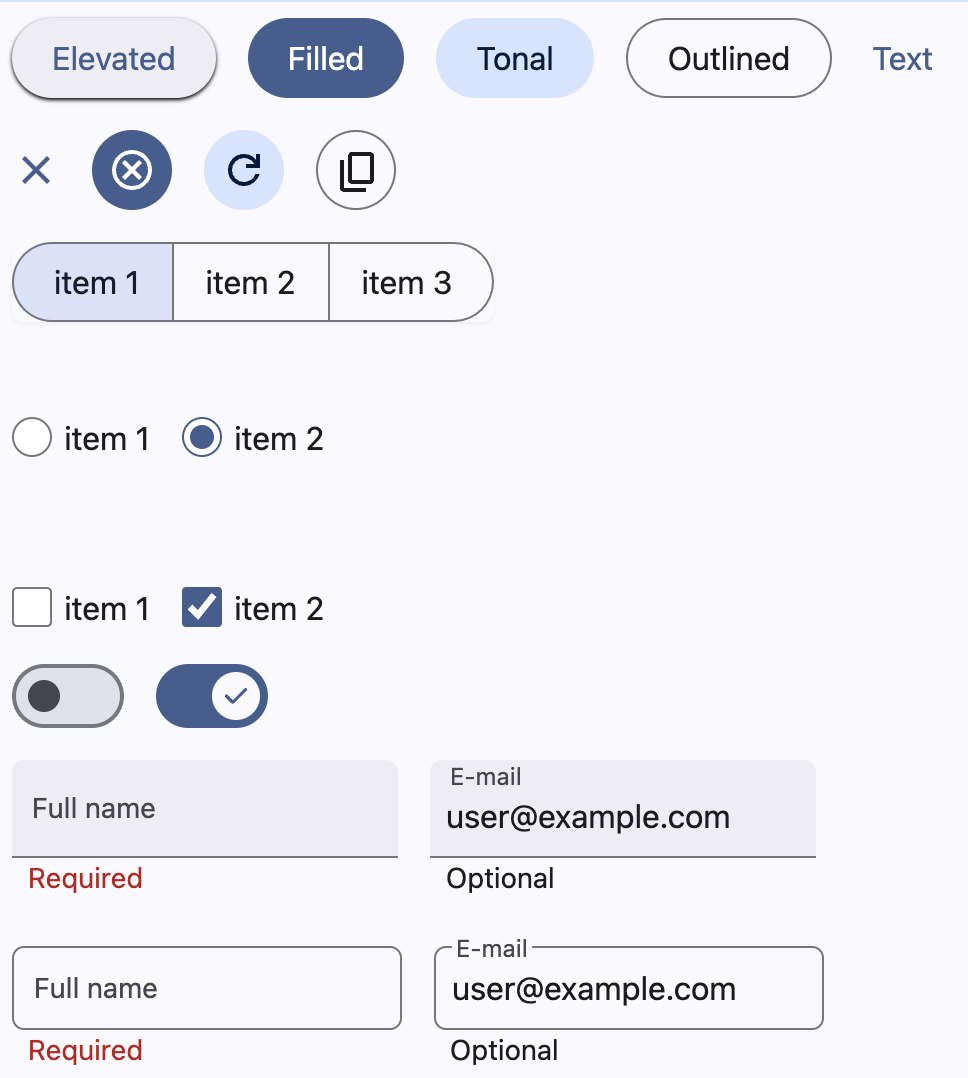
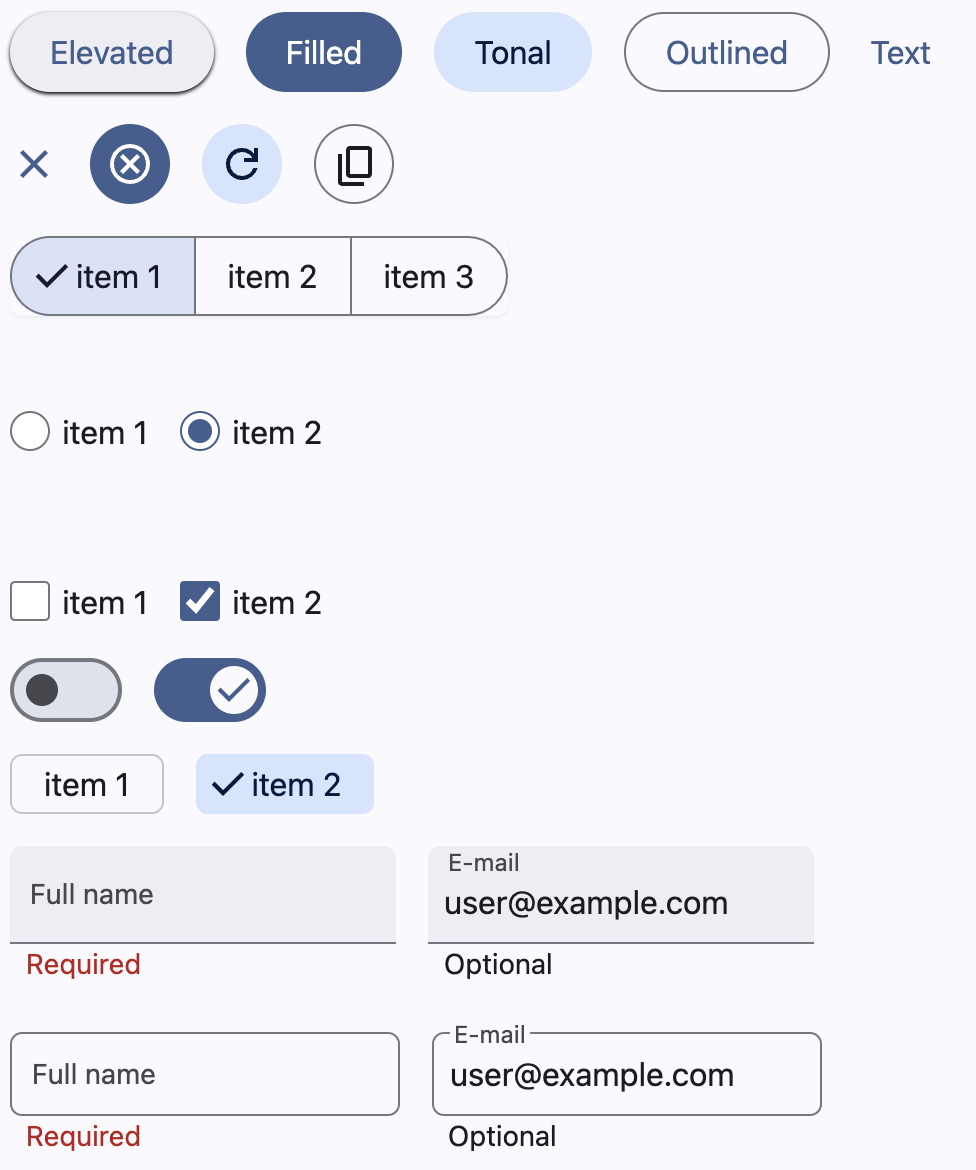
add filter component and some bug fix

diff --git a/src/lib/ButtonGroup.svelte b/src/lib/ButtonGroup.svelte
@@ -1,4 +1,6 @@
 <script>
+  import SvgCheck from "./SvgCheck.svelte";
+
   export let id;
   export let items;
   export let onClick;
@@ -16,15 +18,21 @@
         onClick(item.value);
       }}
       class={(index == 0
-        ? "pr-4 pl-5 py-1.5 border-t border-b border-l rounded-l-full"
+        ? "pr-4 py-1.5 border-t border-b border-l rounded-l-full"
         : index == items.length - 1
-          ? "pl-4 pr-5 py-1.5 border rounded-r-full"
-          : "px-4 py-1.5 border-t border-b border-l") +
+          ? "pr-4 py-1.5 border rounded-r-full"
+          : "pr-4 py-1.5 border-t border-b border-l") +
         " border-lightOutline dark:border-darkOutline" +
         (item.selected
-          ? " bg-lightSecondaryContainer dark:bg-darkSecondaryContainer text-lightOnSecondaryContainer dark:text-darkOnSecondaryContainer"
-          : " bg-lightSurface dark:bg-darkSurface text-lightOnSurface dark:text-darkOnSurface")}
-      >{item.label}</button
+          ? " pl-2 bg-lightSecondaryContainer dark:bg-darkSecondaryContainer text-lightOnSecondaryContainer dark:text-darkOnSecondaryContainer"
+          : " pl-4 bg-lightSurface dark:bg-darkSurface text-lightOnSurface dark:text-darkOnSurface")}
     >
+      <span class="flex flex-row">
+        {#if item.selected}
+          <SvgCheck />
+        {/if}
+        {item.label}
+      </span>
+    </button>
   {/each}
 </div>

diff --git a/src/lib/Switch.svelte b/src/lib/Switch.svelte
@@ -1,4 +1,6 @@
 <script>
+  import SvgCheck from "./SvgCheck.svelte";
+
   export let id;
   export let checked = false;
   export let ouClick;
@@ -29,22 +31,11 @@
       size-4 peer-checked:size-6
       items-center justify-center rounded-full
       bg-lightOnSurfaceVariant dark:bg-darkOnSurfaceVariant
+      text-lightOnSurfaceVariant dark:text-darkOnSurfaceVariant
       transition-all peer-checked:start-6
-      peer-checked:text-lightPrimary peer-checked:dark:text-darkPrimary
-      peer-checked:bg-lightSurface peer-checked:dark:bg-darkSurface"
+      peer-checked:bg-lightSurface peer-checked:dark:bg-darkSurface
+      peer-checked:text-lightPrimary peer-checked:dark:text-darkPrimary"
   >
-    <svg
-      data-checked-icon
-      xmlns="http://www.w3.org/2000/svg"
-      class="hidden size-4"
-      viewBox="0 0 20 20"
-      fill="currentColor"
-    >
-      <path
-        fill-rule="evenodd"
-        d="M16.707 5.293a1 1 0 010 1.414l-8 8a1 1 0 01-1.414 0l-4-4a1 1 0 011.414-1.414L8 12.586l7.293-7.293a1 1 0 011.414 0z"
-        clip-rule="evenodd"
-      />
-    </svg>
+    <SvgCheck />
   </span>
 </label>

diff --git a/src/lib/SvgCancel.svelte b/src/lib/SvgCancel.svelte
@@ -1,1 +1,10 @@
-<svg xmlns="http://www.w3.org/2000/svg" height="24px" viewBox="0 -960 960 960" width="24px" fill="currentColor"><path d="m336-280 144-144 144 144 56-56-144-144 144-144-56-56-144 144-144-144-56 56 144 144-144 144 56 56ZM480-80q-83 0-156-31.5T197-197q-54-54-85.5-127T80-480q0-83 31.5-156T197-763q54-54 127-85.5T480-880q83 0 156 31.5T763-763q54 54 85.5 127T880-480q0 83-31.5 156T763-197q-54 54-127 85.5T480-80Zm0-80q134 0 227-93t93-227q0-134-93-227t-227-93q-134 0-227 93t-93 227q0 134 93 227t227 93Zm0-320Z"/></svg>
+<svg
+  xmlns="http://www.w3.org/2000/svg"
+  height="24px"
+  viewBox="0 -960 960 960"
+  width="24px"
+  fill="currentColor"
+  ><path
+    d="m336-280 144-144 144 144 56-56-144-144 144-144-56-56-144 144-144-144-56 56 144 144-144 144 56 56ZM480-80q-83 0-156-31.5T197-197q-54-54-85.5-127T80-480q0-83 31.5-156T197-763q54-54 127-85.5T480-880q83 0 156 31.5T763-763q54 54 85.5 127T880-480q0 83-31.5 156T763-197q-54 54-127 85.5T480-80Zm0-80q134 0 227-93t93-227q0-134-93-227t-227-93q-134 0-227 93t-93 227q0 134 93 227t227 93Zm0-320Z"
+  /></svg
+>

diff --git a/src/App.svelte b/src/App.svelte
@@ -13,6 +13,7 @@
   import IconButtonOutlined from "./lib/IconButtonOutlined.svelte";
   import CheckBox from "./lib/CheckBox.svelte";
   import Switch from "./lib/Switch.svelte";
+  import Filter from "./lib/Filter.svelte";
   import Radio from "./lib/Radio.svelte";
   import TextFieldFilled from "./lib/TextFieldFilled.svelte";
   import TextFieldOutlined from "./lib/TextFieldOutlined.svelte";
@@ -227,6 +228,20 @@
   <div class="flex p-2 gap-4">
     <Switch id="Switch1" checked={$checked1} ouClick={ouClickSwitch1} />
     <Switch id="Switch2" checked={!$checked1} ouClick={ouClickSwitch2} />
+  </div>
+  <div class="flex p-2 gap-4">
+    <Filter
+      id="Filter1"
+      label="item 1"
+      checked={$checked1}
+      ouClick={ouClickCheckBox1}
+    />
+    <Filter
+      id="Filter1"
+      label="item 2"
+      checked={!$checked1}
+      ouClick={ouClickCheckBox2}
+    />
   </div>
   <div class="grid grid-cols-2 w-full">
     <div class="flex flex-row p-2 gap-4">

diff --git a/src/lib/SvgContentCopy.svelte b/src/lib/SvgContentCopy.svelte
@@ -1,1 +1,10 @@
-<svg xmlns="http://www.w3.org/2000/svg" height="24px" viewBox="0 -960 960 960" width="24px" fill="currentColor"><path d="M360-240q-33 0-56.5-23.5T280-320v-480q0-33 23.5-56.5T360-880h360q33 0 56.5 23.5T800-800v480q0 33-23.5 56.5T720-240H360Zm0-80h360v-480H360v480ZM200-80q-33 0-56.5-23.5T120-160v-560h80v560h440v80H200Zm160-240v-480 480Z"/></svg>
+<svg
+  xmlns="http://www.w3.org/2000/svg"
+  height="24px"
+  viewBox="0 -960 960 960"
+  width="24px"
+  fill="currentColor"
+  ><path
+    d="M360-240q-33 0-56.5-23.5T280-320v-480q0-33 23.5-56.5T360-880h360q33 0 56.5 23.5T800-800v480q0 33-23.5 56.5T720-240H360Zm0-80h360v-480H360v480ZM200-80q-33 0-56.5-23.5T120-160v-560h80v560h440v80H200Zm160-240v-480 480Z"
+  /></svg
+>

diff --git a/src/lib/SvgRefresh.svelte b/src/lib/SvgRefresh.svelte
@@ -1,1 +1,10 @@
-<svg xmlns="http://www.w3.org/2000/svg" height="24px" viewBox="0 -960 960 960" width="24px" fill="currentColor"><path d="M480-160q-134 0-227-93t-93-227q0-134 93-227t227-93q69 0 132 28.5T720-690v-110h80v280H520v-80h168q-32-56-87.5-88T480-720q-100 0-170 70t-70 170q0 100 70 170t170 70q77 0 139-44t87-116h84q-28 106-114 173t-196 67Z"/></svg>
+<svg
+  xmlns="http://www.w3.org/2000/svg"
+  height="24px"
+  viewBox="0 -960 960 960"
+  width="24px"
+  fill="currentColor"
+  ><path
+    d="M480-160q-134 0-227-93t-93-227q0-134 93-227t227-93q69 0 132 28.5T720-690v-110h80v280H520v-80h168q-32-56-87.5-88T480-720q-100 0-170 70t-70 170q0 100 70 170t170 70q77 0 139-44t87-116h84q-28 106-114 173t-196 67Z"
+  /></svg
+>

diff --git a/src/lib/Filter.svelte b/src/lib/Filter.svelte
@@ -1,0 +1,25 @@
+<script>
+  import SvgCheck from "./SvgCheck.svelte";
+
+  export let id;
+  export let label;
+  export let checked = false;
+  export let ouClick;
+</script>
+
+<button
+  {id}
+  type="button"
+  class={"pr-4 py-0.5 rounded-md " +
+    (checked
+      ? "pl-1 border-none bg-lightPrimaryContainer dark:bg-darkPrimaryContainer text-lightOnPrimaryContainer dark:text-darkOnPrimaryContainer"
+      : "pl-4 border bg-lightSurface dark:bg-darkSurface text-lightOnSurface dark:text-darkOnSurface border-lightOutlineVariant dark:border-darkOutlineVariant")}
+  on:click={ouClick}
+>
+  <span class="flex flex-row">
+    {#if checked}
+      <SvgCheck />
+    {/if}
+    {label}
+  </span>
+</button>

diff --git a/src/lib/SvgClose.svelte b/src/lib/SvgClose.svelte
@@ -1,1 +1,10 @@
-<svg xmlns="http://www.w3.org/2000/svg" height="24px" viewBox="0 -960 960 960" width="24px" fill="currentColor"><path d="m256-200-56-56 224-224-224-224 56-56 224 224 224-224 56 56-224 224 224 224-56 56-224-224-224 224Z"/></svg>
+<svg
+  xmlns="http://www.w3.org/2000/svg"
+  height="24px"
+  viewBox="0 -960 960 960"
+  width="24px"
+  fill="currentColor"
+  ><path
+    d="m256-200-56-56 224-224-224-224 56-56 224 224 224-224 56 56-224 224 224 224-56 56-224-224-224 224Z"
+  /></svg
+>

diff --git a/src/lib/ButtonOutlined.svelte b/src/lib/ButtonOutlined.svelte
@@ -9,7 +9,7 @@
   type="button"
   class="px-5 py-1.5 border rounded-full h-10
     bg-lightSurface dark:bg-darkSurface
-    text-lightOnSurface dark:text-darkOnSurface
+    text-lightPrimary dark:text-darkPrimary
     border-lightOutline dark:border-darkOutline"
   on:click={ouClick}>{label}</button
 >

diff --git a/src/lib/SvgCheck.svelte b/src/lib/SvgCheck.svelte
@@ -1,0 +1,8 @@
+<svg
+  xmlns="http://www.w3.org/2000/svg"
+  height="24px"
+  viewBox="0 -960 960 960"
+  width="24px"
+  fill="currentColor"
+  ><path d="M382-240 154-468l57-57 171 171 367-367 57 57-424 424Z" /></svg
+>
